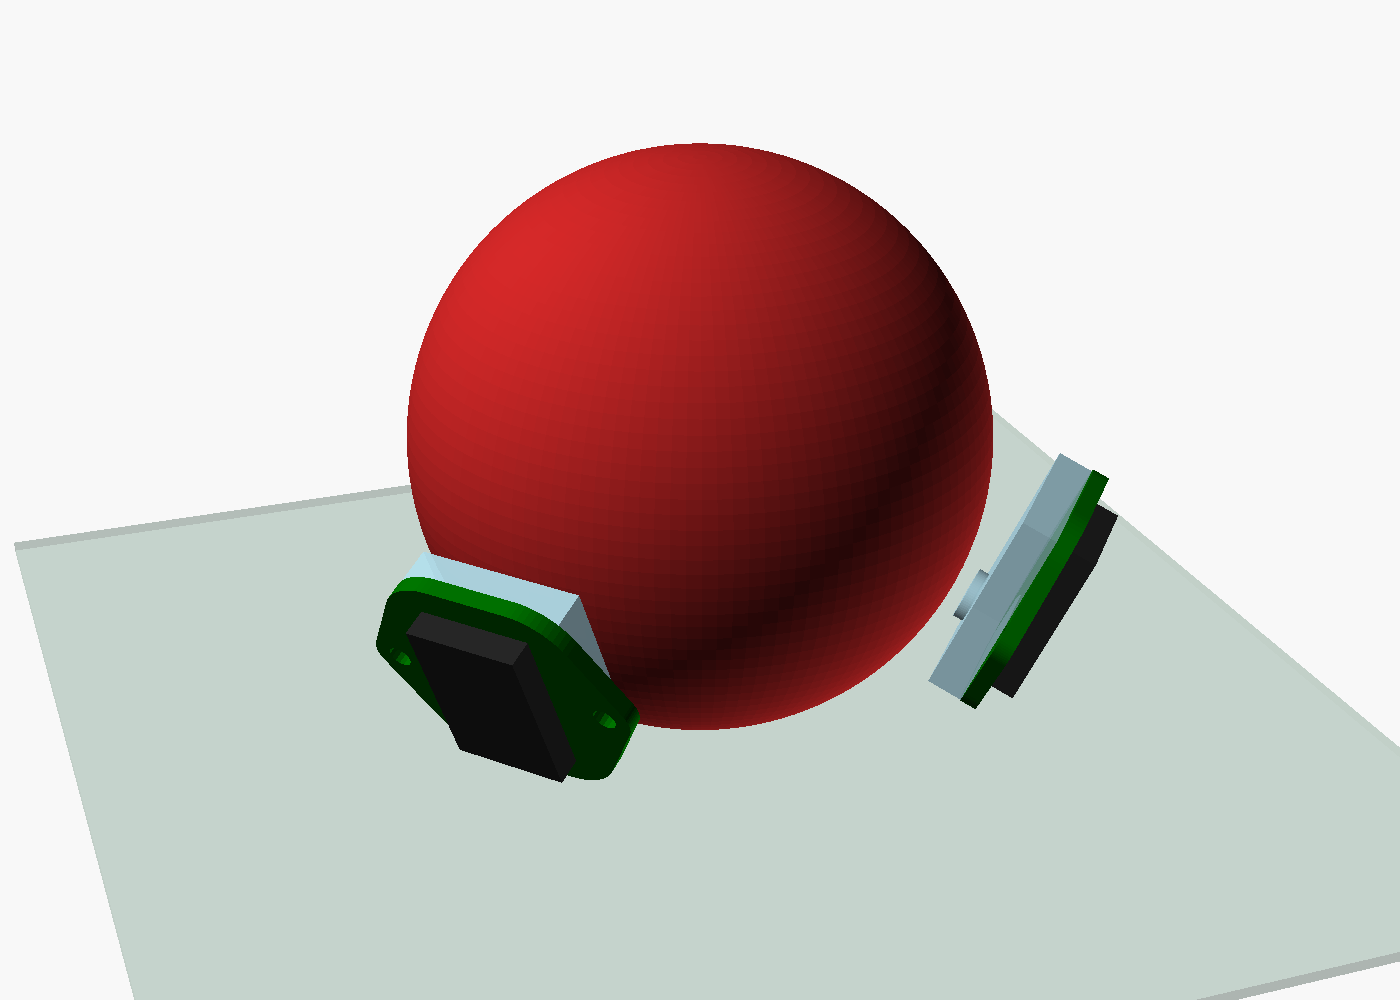
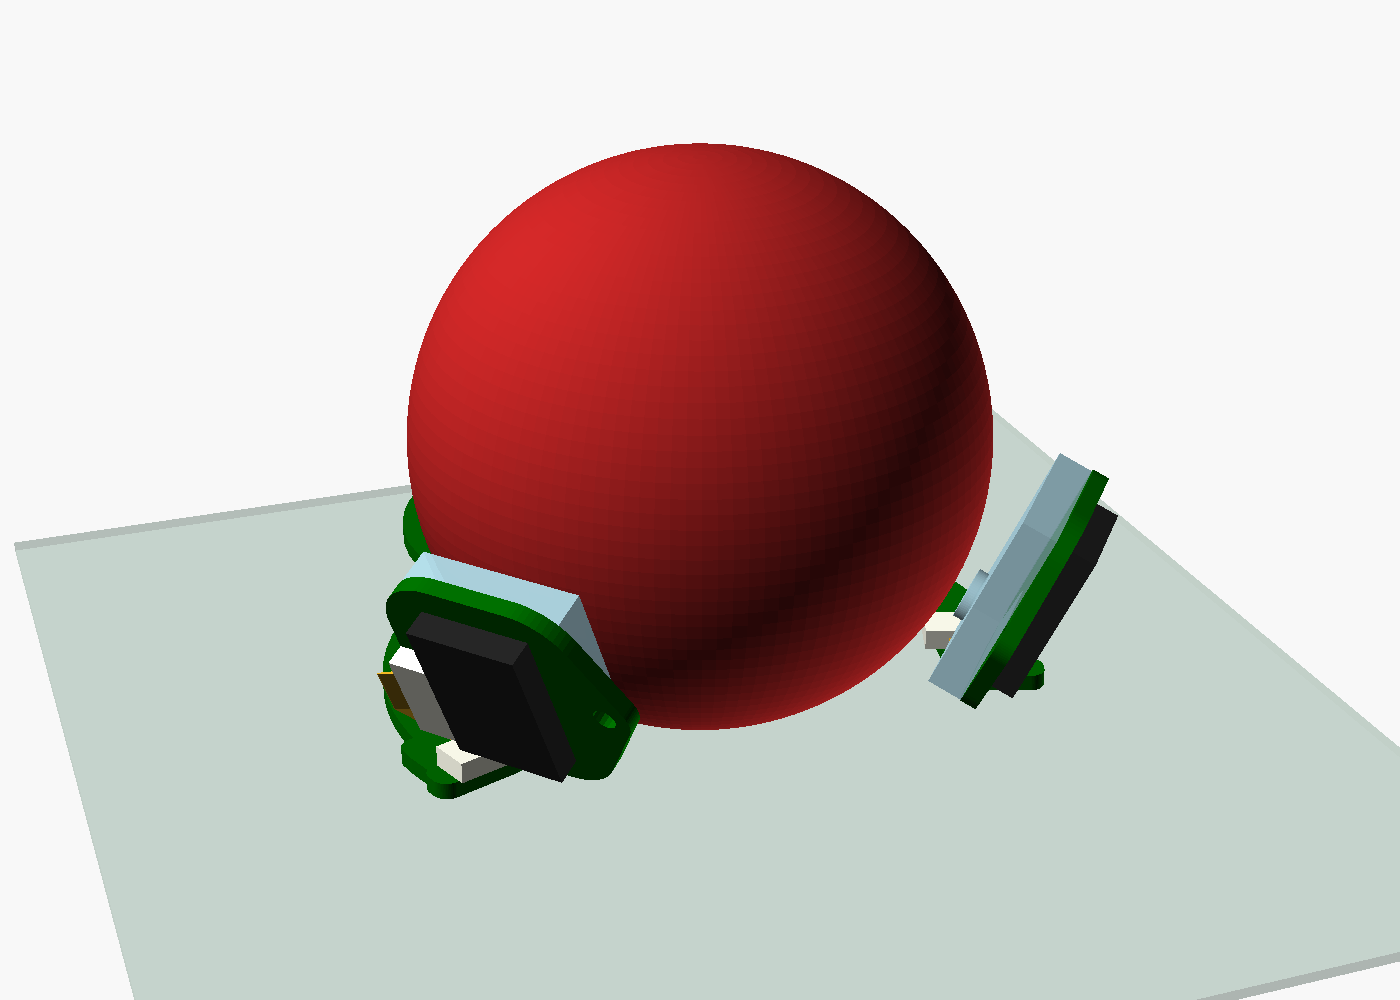
Base PCB under the case, screw-on cover, FPC ribbons to the sensors
The XIAO is soldered upside down onto a base PCB (parts through a cutout,
into a pocket in the cover) that sits in a groove in the underside and
reaches round under both sensors. Each sensor board gets an FPC connector
beside its chip (and loses its second ear); a ribbon runs down a slot to a
connector on the base PCB. A cover over the whole underside hides the PCB;
the same countersunk screws hold both. Replaces the front lid and the
wire channels. part="base_pcb" exports the outline for the PCB's edge cuts.

diff --git a/readme.md b/readme.md
@@ -7,13 +7,18 @@ The ball floats just 1 mm above the table on three ceramic support balls.
 Two PMW3610 sensors look up at the ball from below its equator, placed so
 their lines of sight are orthogonal (X, Y and twist are all observable).
 A Seeed XIAO nRF52840 running ZMK and a 602020 LiPo lie flat in a squashed
-dome in front of the ball, behind a lid screwed on from underneath.
+dome in front of the ball. The XIAO is soldered upside down onto a base PCB
+that sits in a groove in the underside and reaches round under both sensors,
+each wired up with a short FPC ribbon; a cover over the whole underside hides
+it, held by the same screws.
 
 ![Exploded view](case/renders/exploded.png)
 
 - `case/rollino.scad` - parametric OpenSCAD model (ball size, sensor/MCU
   placement, battery, ...). Set `part` to `assembly`, `exploded`, `hardware`, `section`,
-  or `body` / `elec_lid` for printable parts.
+  or `body` / `base_cover` for printable parts. `base_pcb` is the base PCB's
+  outline (2D); export it as DXF for the PCB's edge cuts. The console prints
+  the XIAO, screw and FPC connector positions for laying it out.
 - `case/renders/` - preview renders.
 - `datasheets/` - component datasheets. The PMW3610 datasheet is available
   [here](https://www.epsglobal.com/Media-Library/EPSGlobal/Products/files/pixart/PMW3610DM-SUDU.pdf?ext=.pdf).
